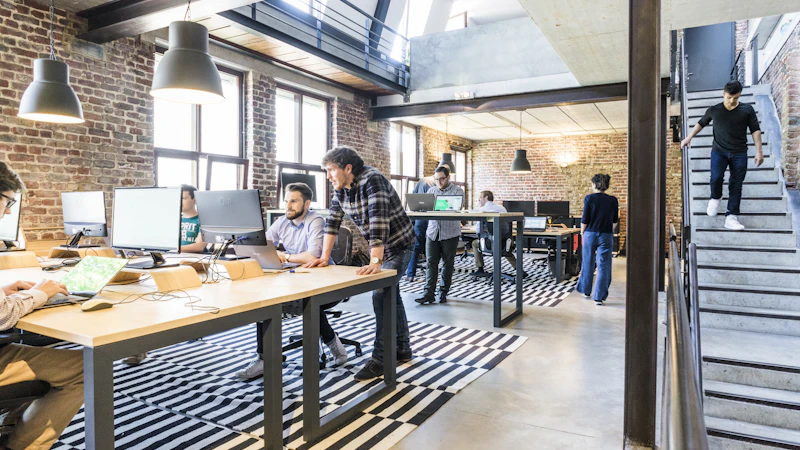
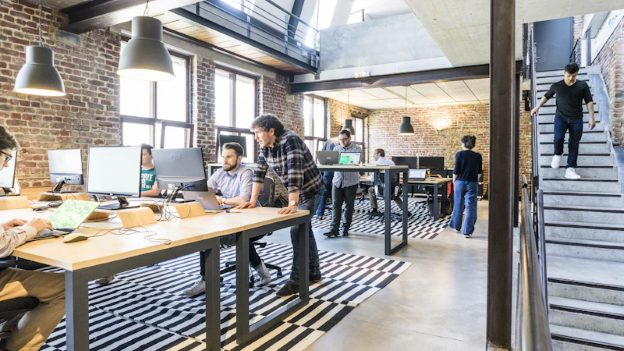
jhhjbh

diff --git a/css/styles.css b/css/styles.css
@@ -125,12 +125,16 @@ section{padding:88px 0;position:relative}
 .nav-logo{display:flex;align-items:center;gap:11px;flex-shrink:0}
 .nav-logo-icon{
   width:42px;height:42px;
-  border-radius:10px;object-fit:cover;display:block;flex-shrink:0;
+  border-radius:8px;object-fit:contain;display:block;flex-shrink:0;
   filter:none
 }
-.nav-logo-text{display:flex;flex-direction:column}
-.nav-logo-name{font-size:1.1rem;font-weight:800;color:var(--white);line-height:1.1}
-.nav-logo-tagline{font-size:.6rem;color:var(--teal-light);letter-spacing:1px;text-transform:uppercase}
+.nav-logo-text{display:flex;flex-direction:column;justify-content:center}
+.nav-logo-name{display:none}
+.nav-logo-tagline{
+  font-size:.72rem;font-weight:700;letter-spacing:2px;text-transform:uppercase;
+  color:#00CCFF;
+  text-shadow:0 0 8px rgba(0,204,255,.7),0 0 16px rgba(0,204,255,.4)
+}
 .nav-links{display:flex;align-items:center;gap:2px}
 .nav-links a{
   padding:8px 12px;font-size:.84rem;font-weight:500;
@@ -605,7 +609,7 @@ input[type="range"]::-webkit-slider-thumb{
 .footer-logo-wrap{display:flex;align-items:center;gap:11px;margin-bottom:15px;text-decoration:none}
 .footer-logo-icon{
   width:40px;height:40px;
-  border-radius:9px;object-fit:cover;display:block;flex-shrink:0;
+  border-radius:8px;object-fit:contain;display:block;flex-shrink:0;
   filter:none
 }
 .footer-logo-name{font-size:1.06rem;font-weight:800;color:var(--white)}
@@ -3208,4 +3212,93 @@ html[data-theme="dark"] .navbar.scrolled .btn-outline:hover{
 .value-card button.btn-primary{
   background:linear-gradient(135deg,#0B82D8,#16A34A);
   color:#FFFFFF
+}
+
+/* ══ GLOBAL TEXT VISIBILITY FIX ════════════════════════════
+   [data-theme="dark"] .section-title sets colour:#FFF which
+   makes text invisible on the light-background sections from
+   the redesign CSS. Override here with higher specificity.
+   ══════════════════════════════════════════════════════════ */
+
+/* Light-background sections → dark text */
+.services-section .section-title,
+.cards-section .section-title,
+.loans-section .section-title,
+.stats-section .section-title,
+.why-section .section-title,
+.faq-section .section-title,
+.about-values-grid ~ * .section-title,
+html[data-theme="dark"] .services-section .section-title,
+html[data-theme="dark"] .cards-section .section-title,
+html[data-theme="dark"] .loans-section .section-title,
+html[data-theme="dark"] .stats-section .section-title,
+html[data-theme="dark"] .why-section .section-title,
+html[data-theme="dark"] .faq-section .section-title{
+  color:#0A2540 !important
+}
+.services-section .section-subtitle,
+.cards-section .section-subtitle,
+.loans-section .section-subtitle,
+.stats-section .section-subtitle,
+.why-section .section-subtitle,
+.faq-section .section-subtitle,
+html[data-theme="dark"] .services-section .section-subtitle,
+html[data-theme="dark"] .cards-section .section-subtitle,
+html[data-theme="dark"] .loans-section .section-subtitle,
+html[data-theme="dark"] .why-section .section-subtitle,
+html[data-theme="dark"] .faq-section .section-subtitle{
+  color:#475569 !important
+}
+
+/* Gradient span text for light sections */
+.services-section .section-title span,
+.cards-section .section-title span,
+.loans-section .section-title span,
+.why-section .section-title span,
+.faq-section .section-title span,
+html[data-theme="dark"] .cards-section .section-title span,
+html[data-theme="dark"] .services-section .section-title span,
+html[data-theme="dark"] .loans-section .section-title span,
+html[data-theme="dark"] .why-section .section-title span{
+  background:linear-gradient(135deg,#0B6BCE,#16A34A) !important;
+  -webkit-background-clip:text !important;
+  -webkit-text-fill-color:transparent !important;
+  background-clip:text !important
+}
+
+/* Dark-background sections → keep white text */
+.security-section .section-title,
+.news-section .section-title,
+.testimonials-section .section-title,
+html[data-theme="dark"] .security-section .section-title,
+html[data-theme="dark"] .news-section .section-title{
+  color:#FFFFFF !important
+}
+.security-section .section-subtitle,
+.news-section .section-subtitle,
+html[data-theme="dark"] .security-section .section-subtitle,
+html[data-theme="dark"] .news-section .section-subtitle{
+  color:rgba(255,255,255,.6) !important
+}
+
+/* ── Security badge text visibility fix ───────────────────── */
+.security-badge-main{
+  background:rgba(255,255,255,.05) !important;
+  border:1px solid rgba(255,255,255,.1) !important;
+  box-shadow:0 14px 44px rgba(0,0,0,.45) !important
+}
+.security-badge-main h3{color:#FFFFFF !important}
+.security-badge-main p{color:rgba(255,255,255,.7) !important}
+.security-icon-main{color:#FFFFFF !important;opacity:.9}
+
+/* ── Navbar logo: hide name, always show highlighted tagline ── */
+.nav-logo-name,
+.navbar.scrolled .nav-logo-name{display:none !important}
+.nav-logo-tagline,
+.navbar.scrolled .nav-logo-tagline{
+  display:block !important;
+  font-size:.72rem !important;font-weight:700 !important;
+  letter-spacing:2px !important;text-transform:uppercase !important;
+  color:#00CCFF !important;
+  text-shadow:0 0 8px rgba(0,204,255,.75),0 0 18px rgba(0,204,255,.4) !important
 }

diff --git a/contact.html b/contact.html
@@ -12,7 +12,7 @@
 <nav class="navbar" id="navbar">
   <div class="container">
     <div class="navbar-inner">
-      <a href="index.html" class="nav-logo"><img class="nav-logo-icon" src="images/logo.webp" alt="Stackly"><div class="nav-logo-text"><span class="nav-logo-name">Stackly</span><span class="nav-logo-tagline">Secure Banking</span></div></a>
+      <a href="index.html" class="nav-logo"><img class="nav-logo-icon" src="images/stackly-bank-logo.webp" alt="Stackly"><div class="nav-logo-text"><span class="nav-logo-name">Stackly</span><span class="nav-logo-tagline">Secure Banking</span></div></a>
       <div class="nav-links">
         <a href="index.html">Home</a><a href="about.html">About Us</a><a href="services.html">Services</a>
         <a href="digital-banking.html">Digital</a><a href="loans.html">Loans</a>
@@ -86,10 +86,23 @@
           </div>
         </div>
 
-        <div class="map-placeholder reveal">
-          <span class="map-icon">📍</span>
-          <p>Stackly HQ — BKC, Mumbai</p>
-          <button class="btn btn-outline btn-sm" style="font-size:.75rem" onclick="showToast('Opening map...','info')">Open in Maps</button>
+        <div class="map-placeholder reveal" style="background:linear-gradient(135deg,#dbeafe,#e0f2fe,#dcfce7);border:1px solid rgba(11,107,206,.15);position:relative;overflow:hidden;height:240px">
+          <!-- Map grid -->
+          <div style="position:absolute;inset:0;background-image:linear-gradient(rgba(11,107,206,.12) 1px,transparent 1px),linear-gradient(90deg,rgba(11,107,206,.12) 1px,transparent 1px);background-size:28px 28px;pointer-events:none"></div>
+          <!-- Roads -->
+          <div style="position:absolute;top:50%;left:0;right:0;height:7px;background:rgba(255,255,255,.75);transform:translateY(-50%);pointer-events:none"></div>
+          <div style="position:absolute;top:0;bottom:0;left:40%;width:7px;background:rgba(255,255,255,.75);pointer-events:none"></div>
+          <!-- Location block -->
+          <div style="position:absolute;top:50%;left:55%;transform:translate(-10%,-60%);background:#FFFFFF;border-radius:8px;padding:6px 10px;box-shadow:0 2px 8px rgba(0,0,0,.15);font-size:.7rem;font-weight:700;color:#0A4D9B;white-space:nowrap;pointer-events:none">Stackly Tower</div>
+          <!-- Content -->
+          <div style="position:relative;z-index:2;display:flex;flex-direction:column;align-items:center;gap:10px">
+            <span style="font-size:2.5rem;filter:drop-shadow(0 2px 4px rgba(0,0,0,.2))">📍</span>
+            <p style="font-size:.82rem;color:#1e3a5f;font-weight:600;margin:0">Stackly HQ — BKC, Mumbai</p>
+            <a href="https://maps.google.com/?q=Stackly+Tower,+BKC,+Mumbai,+Maharashtra+400051" target="_blank" rel="noopener"
+               style="background:#0B6BCE;color:#FFFFFF;padding:8px 20px;border-radius:50px;font-size:.78rem;font-weight:700;text-decoration:none;box-shadow:0 4px 12px rgba(11,107,206,.35);display:inline-flex;align-items:center;gap:6px">
+              🗺️ Open in Maps
+            </a>
+          </div>
         </div>
       </div>
 
@@ -168,7 +181,7 @@
 <footer class="footer">
   <div class="container">
     <div class="footer-grid">
-      <div class="footer-brand"><a href="index.html" class="footer-logo-wrap"><img class="footer-logo-icon" src="images/logo.webp" alt="Stackly"><div><div class="footer-logo-name">Stackly Bank</div><div class="footer-tagline-text">Secure Banking. Smarter Future.</div></div></a><p class="footer-desc">India's trusted digital banking platform.</p><div class="footer-social"><a class="social-icon" href="404.html">f</a><a class="social-icon" href="404.html">𝕏</a><a class="social-icon" href="404.html">📸</a><a class="social-icon" href="404.html">in</a></div></div>
+      <div class="footer-brand"><a href="index.html" class="footer-logo-wrap"><img class="footer-logo-icon" src="images/stackly-bank-logo.webp" alt="Stackly"><div><div class="footer-logo-name">Stackly Bank</div><div class="footer-tagline-text">Secure Banking. Smarter Future.</div></div></a><p class="footer-desc">India's trusted digital banking platform.</p><div class="footer-social"><a class="social-icon" href="404.html">f</a><a class="social-icon" href="404.html">𝕏</a><a class="social-icon" href="404.html">📸</a><a class="social-icon" href="404.html">in</a></div></div>
       <div class="footer-col"><h4>Quick Links</h4><div class="footer-links"><a href="index.html">Home</a><a href="about.html">About</a><a href="services.html">Services</a><a href="loans.html">Loans</a></div></div>
       <div class="footer-col"><h4>Contact</h4><div class="footer-links"><a href="support.html">Help Centre</a><a href="faq.html">FAQ</a><a href="contact.html">Contact Us</a></div></div>
       <div class="footer-col"><h4>Reach Us</h4><div class="footer-contact-item"><span class="footer-contact-icon">📞</span><div class="footer-contact-text">1800-123-4567</div></div><div class="footer-contact-item"><span class="footer-contact-icon">📧</span><div class="footer-contact-text">[email redacted]</div></div><div class="footer-contact-item"><span class="footer-contact-icon">📍</span><div class="footer-contact-text"><a href="https://maps.google.com/?q=Stackly+Tower,+BKC,+Mumbai,+Maharashtra+400051" target="_blank" rel="noopener" style="color:inherit;text-decoration:none">Stackly Tower, BKC<br>Mumbai, Maharashtra 400051</a></div></div></div>

diff --git a/about.html b/about.html
@@ -13,7 +13,7 @@
   <div class="container">
     <div class="navbar-inner">
       <a href="index.html" class="nav-logo">
-        <img class="nav-logo-icon" src="images/logo.webp" alt="Stackly">
+        <img class="nav-logo-icon" src="images/stackly-bank-logo.webp" alt="Stackly">
         <div class="nav-logo-text">
           <span class="nav-logo-name">Stackly</span>
           <span class="nav-logo-tagline">Secure Banking</span>
@@ -226,7 +226,7 @@
     <div class="footer-grid">
       <div class="footer-brand">
         <a href="index.html" class="footer-logo-wrap">
-          <img class="footer-logo-icon" src="images/logo.webp" alt="Stackly">
+          <img class="footer-logo-icon" src="images/stackly-bank-logo.webp" alt="Stackly">
           <div><div class="footer-logo-name">Stackly Bank</div><div class="footer-tagline-text">Secure Banking. Smarter Future.</div></div>
         </a>
         <p class="footer-desc">India's trusted digital banking platform. Secure, fast and always available — banking the way it should be.</p>

diff --git a/credit-cards.html b/credit-cards.html
@@ -12,7 +12,7 @@
 <nav class="navbar" id="navbar">
   <div class="container">
     <div class="navbar-inner">
-      <a href="index.html" class="nav-logo"><img class="nav-logo-icon" src="images/logo.webp" alt="Stackly"><div class="nav-logo-text"><span class="nav-logo-name">Stackly</span><span class="nav-logo-tagline">Secure Banking</span></div></a>
+      <a href="index.html" class="nav-logo"><img class="nav-logo-icon" src="images/stackly-bank-logo.webp" alt="Stackly"><div class="nav-logo-text"><span class="nav-logo-name">Stackly</span><span class="nav-logo-tagline">Secure Banking</span></div></a>
       <div class="nav-links">
         <a href="index.html">Home</a><a href="about.html">About Us</a><a href="services.html">Services</a>
         <a href="digital-banking.html">Digital</a><a href="loans.html">Loans</a>
@@ -237,7 +237,7 @@
 <footer class="footer">
   <div class="container">
     <div class="footer-grid">
-      <div class="footer-brand"><a href="index.html" class="footer-logo-wrap"><img class="footer-logo-icon" src="images/logo.webp" alt="Stackly"><div><div class="footer-logo-name">Stackly Bank</div><div class="footer-tagline-text">Secure Banking. Smarter Future.</div></div></a><p class="footer-desc">India's trusted digital banking platform.</p><div class="footer-social"><a class="social-icon" href="404.html">f</a><a class="social-icon" href="404.html">𝕏</a><a class="social-icon" href="404.html">📸</a><a class="social-icon" href="404.html">in</a></div></div>
+      <div class="footer-brand"><a href="index.html" class="footer-logo-wrap"><img class="footer-logo-icon" src="images/stackly-bank-logo.webp" alt="Stackly"><div><div class="footer-logo-name">Stackly Bank</div><div class="footer-tagline-text">Secure Banking. Smarter Future.</div></div></a><p class="footer-desc">India's trusted digital banking platform.</p><div class="footer-social"><a class="social-icon" href="404.html">f</a><a class="social-icon" href="404.html">𝕏</a><a class="social-icon" href="404.html">📸</a><a class="social-icon" href="404.html">in</a></div></div>
       <div class="footer-col"><h4>Credit Cards</h4><div class="footer-links"><a href="credit-cards.html">Platinum Card</a><a href="credit-cards.html">Gold Card</a><a href="credit-cards.html">Rewards Card</a><a href="credit-cards.html">Business Card</a></div></div>
       <div class="footer-col"><h4>Quick Links</h4><div class="footer-links"><a href="index.html">Home</a><a href="about.html">About</a><a href="services.html">Services</a><a href="loans.html">Loans</a></div></div>
       <div class="footer-col"><h4>Contact</h4><div class="footer-contact-item"><span class="footer-contact-icon">📞</span><div class="footer-contact-text">1800-123-4567</div></div><div class="footer-contact-item"><span class="footer-contact-icon">📧</span><div class="footer-contact-text">[email redacted]</div></div><div class="footer-contact-item"><span class="footer-contact-icon">📍</span><div class="footer-contact-text"><a href="https://maps.google.com/?q=Stackly+Tower,+BKC,+Mumbai,+Maharashtra+400051" target="_blank" rel="noopener" style="color:inherit;text-decoration:none">Stackly Tower, BKC<br>Mumbai, Maharashtra 400051</a></div></div></div>

diff --git a/digital-banking.html b/digital-banking.html
@@ -12,7 +12,7 @@
 <nav class="navbar" id="navbar">
   <div class="container">
     <div class="navbar-inner">
-      <a href="index.html" class="nav-logo"><img class="nav-logo-icon" src="images/logo.webp" alt="Stackly"><div class="nav-logo-text"><span class="nav-logo-name">Stackly</span><span class="nav-logo-tagline">Secure Banking</span></div></a>
+      <a href="index.html" class="nav-logo"><img class="nav-logo-icon" src="images/stackly-bank-logo.webp" alt="Stackly"><div class="nav-logo-text"><span class="nav-logo-name">Stackly</span><span class="nav-logo-tagline">Secure Banking</span></div></a>
       <div class="nav-links">
         <a href="index.html">Home</a><a href="about.html">About Us</a><a href="services.html">Services</a>
         <a href="digital-banking.html" class="active">Digital</a><a href="loans.html">Loans</a>
@@ -157,7 +157,7 @@
 <footer class="footer">
   <div class="container">
     <div class="footer-grid">
-      <div class="footer-brand"><a href="index.html" class="footer-logo-wrap"><img class="footer-logo-icon" src="images/logo.webp" alt="Stackly"><div><div class="footer-logo-name">Stackly Bank</div><div class="footer-tagline-text">Secure Banking. Smarter Future.</div></div></a><p class="footer-desc">India's trusted digital banking platform.</p><div class="footer-social"><a class="social-icon" href="404.html">f</a><a class="social-icon" href="404.html">𝕏</a><a class="social-icon" href="404.html">📸</a><a class="social-icon" href="404.html">in</a></div></div>
+      <div class="footer-brand"><a href="index.html" class="footer-logo-wrap"><img class="footer-logo-icon" src="images/stackly-bank-logo.webp" alt="Stackly"><div><div class="footer-logo-name">Stackly Bank</div><div class="footer-tagline-text">Secure Banking. Smarter Future.</div></div></a><p class="footer-desc">India's trusted digital banking platform.</p><div class="footer-social"><a class="social-icon" href="404.html">f</a><a class="social-icon" href="404.html">𝕏</a><a class="social-icon" href="404.html">📸</a><a class="social-icon" href="404.html">in</a></div></div>
       <div class="footer-col"><h4>Digital</h4><div class="footer-links"><a href="digital-banking.html">Mobile App</a><a href="digital-banking.html">Internet Banking</a><a href="digital-banking.html">UPI</a><a href="digital-banking.html">Bill Payments</a></div></div>
       <div class="footer-col"><h4>Quick Links</h4><div class="footer-links"><a href="index.html">Home</a><a href="about.html">About</a><a href="services.html">Services</a><a href="loans.html">Loans</a></div></div>
       <div class="footer-col"><h4>Contact</h4><div class="footer-contact-item"><span class="footer-contact-icon">📞</span><div class="footer-contact-text">1800-123-4567</div></div><div class="footer-contact-item"><span class="footer-contact-icon">📧</span><div class="footer-contact-text">[email redacted]</div></div><div class="footer-contact-item"><span class="footer-contact-icon">📍</span><div class="footer-contact-text"><a href="https://maps.google.com/?q=Stackly+Tower,+BKC,+Mumbai,+Maharashtra+400051" target="_blank" rel="noopener" style="color:inherit;text-decoration:none">Stackly Tower, BKC<br>Mumbai, Maharashtra 400051</a></div></div></div>

diff --git a/faq.html b/faq.html
@@ -12,7 +12,7 @@
 <nav class="navbar" id="navbar">
   <div class="container">
     <div class="navbar-inner">
-      <a href="index.html" class="nav-logo"><img class="nav-logo-icon" src="images/logo.webp" alt="Stackly"><div class="nav-logo-text"><span class="nav-logo-name">Stackly</span><span class="nav-logo-tagline">Secure Banking</span></div></a>
+      <a href="index.html" class="nav-logo"><img class="nav-logo-icon" src="images/stackly-bank-logo.webp" alt="Stackly"><div class="nav-logo-text"><span class="nav-logo-name">Stackly</span><span class="nav-logo-tagline">Secure Banking</span></div></a>
       <div class="nav-links">
         <a href="index.html">Home</a><a href="about.html">About Us</a><a href="services.html">Services</a>
         <a href="digital-banking.html">Digital</a><a href="loans.html">Loans</a>
@@ -177,7 +177,7 @@
 <footer class="footer">
   <div class="container">
     <div class="footer-grid">
-      <div class="footer-brand"><a href="index.html" class="footer-logo-wrap"><img class="footer-logo-icon" src="images/logo.webp" alt="Stackly"><div><div class="footer-logo-name">Stackly Bank</div><div class="footer-tagline-text">Secure Banking. Smarter Future.</div></div></a><p class="footer-desc">India's trusted digital banking platform.</p><div class="footer-social"><a class="social-icon" href="404.html">f</a><a class="social-icon" href="404.html">𝕏</a><a class="social-icon" href="404.html">📸</a><a class="social-icon" href="404.html">in</a></div></div>
+      <div class="footer-brand"><a href="index.html" class="footer-logo-wrap"><img class="footer-logo-icon" src="images/stackly-bank-logo.webp" alt="Stackly"><div><div class="footer-logo-name">Stackly Bank</div><div class="footer-tagline-text">Secure Banking. Smarter Future.</div></div></a><p class="footer-desc">India's trusted digital banking platform.</p><div class="footer-social"><a class="social-icon" href="404.html">f</a><a class="social-icon" href="404.html">𝕏</a><a class="social-icon" href="404.html">📸</a><a class="social-icon" href="404.html">in</a></div></div>
       <div class="footer-col"><h4>Quick Links</h4><div class="footer-links"><a href="index.html">Home</a><a href="about.html">About</a><a href="services.html">Services</a><a href="loans.html">Loans</a></div></div>
       <div class="footer-col"><h4>Help</h4><div class="footer-links"><a href="support.html">Help Centre</a><a href="faq.html">FAQ</a><a href="contact.html">Contact</a></div></div>
       <div class="footer-col"><h4>Contact</h4><div class="footer-contact-item"><span class="footer-contact-icon">📞</span><div class="footer-contact-text">1800-123-4567</div></div><div class="footer-contact-item"><span class="footer-contact-icon">📧</span><div class="footer-contact-text">[email redacted]</div></div><div class="footer-contact-item"><span class="footer-contact-icon">📍</span><div class="footer-contact-text"><a href="https://maps.google.com/?q=Stackly+Tower,+BKC,+Mumbai,+Maharashtra+400051" target="_blank" rel="noopener" style="color:inherit;text-decoration:none">Stackly Tower, BKC<br>Mumbai, Maharashtra 400051</a></div></div></div>

diff --git a/forgot-password.html b/forgot-password.html
@@ -13,7 +13,7 @@
   <div class="container">
     <div class="navbar-inner">
       <a href="index.html" class="nav-logo">
-        <img class="nav-logo-icon" src="images/logo.webp" alt="Stackly">
+        <img class="nav-logo-icon" src="images/stackly-bank-logo.webp" alt="Stackly">
         <div class="nav-logo-text">
           <span class="nav-logo-name">Stackly</span>
           <span class="nav-logo-tagline">Secure Banking</span>
@@ -37,7 +37,7 @@
       <div class="auth-card">
         <div class="auth-card-header">
           <div class="auth-card-logo">
-            <img class="auth-card-logo-icon" src="images/logo.webp" alt="Stackly">
+            <img class="auth-card-logo-icon" src="images/stackly-bank-logo.webp" alt="Stackly">
             <span class="auth-card-logo-name">Stackly Bank</span>
           </div>
           <h2 class="auth-card-title">Reset Password</h2>

diff --git a/index.html b/index.html
@@ -29,7 +29,7 @@
   <div class="container">
     <div class="navbar-inner">
       <a href="index.html" class="nav-logo">
-        <img class="nav-logo-icon" src="images/logo.webp" alt="Stackly">
+        <img class="nav-logo-icon" src="images/stackly-bank-logo.webp" alt="Stackly">
         <div class="nav-logo-text">
           <span class="nav-logo-name">Stackly</span>
           <span class="nav-logo-tagline">Secure Banking</span>
@@ -946,7 +946,7 @@
     <div class="footer-grid">
       <div class="footer-brand">
         <a href="index.html" class="footer-logo-wrap">
-          <img class="footer-logo-icon" src="images/logo.webp" alt="Stackly">
+          <img class="footer-logo-icon" src="images/stackly-bank-logo.webp" alt="Stackly">
           <div>
             <div class="footer-logo-name">Stackly Bank</div>
             <div class="footer-tagline-text">Secure Banking. Smarter Future.</div>

diff --git a/loans.html b/loans.html
@@ -12,7 +12,7 @@
 <nav class="navbar" id="navbar">
   <div class="container">
     <div class="navbar-inner">
-      <a href="index.html" class="nav-logo"><img class="nav-logo-icon" src="images/logo.webp" alt="Stackly"><div class="nav-logo-text"><span class="nav-logo-name">Stackly</span><span class="nav-logo-tagline">Secure Banking</span></div></a>
+      <a href="index.html" class="nav-logo"><img class="nav-logo-icon" src="images/stackly-bank-logo.webp" alt="Stackly"><div class="nav-logo-text"><span class="nav-logo-name">Stackly</span><span class="nav-logo-tagline">Secure Banking</span></div></a>
       <div class="nav-links">
         <a href="index.html">Home</a><a href="about.html">About Us</a><a href="services.html">Services</a>
         <a href="digital-banking.html">Digital</a><a href="loans.html" class="active">Loans</a>
@@ -232,7 +232,7 @@
 <footer class="footer">
   <div class="container">
     <div class="footer-grid">
-      <div class="footer-brand"><a href="index.html" class="footer-logo-wrap"><img class="footer-logo-icon" src="images/logo.webp" alt="Stackly"><div><div class="footer-logo-name">Stackly Bank</div><div class="footer-tagline-text">Secure Banking. Smarter Future.</div></div></a><p class="footer-desc">India's trusted digital banking platform.</p><div class="footer-social"><a class="social-icon" href="404.html">f</a><a class="social-icon" href="404.html">𝕏</a><a class="social-icon" href="404.html">📸</a><a class="social-icon" href="404.html">in</a></div></div>
+      <div class="footer-brand"><a href="index.html" class="footer-logo-wrap"><img class="footer-logo-icon" src="images/stackly-bank-logo.webp" alt="Stackly"><div><div class="footer-logo-name">Stackly Bank</div><div class="footer-tagline-text">Secure Banking. Smarter Future.</div></div></a><p class="footer-desc">India's trusted digital banking platform.</p><div class="footer-social"><a class="social-icon" href="404.html">f</a><a class="social-icon" href="404.html">𝕏</a><a class="social-icon" href="404.html">📸</a><a class="social-icon" href="404.html">in</a></div></div>
       <div class="footer-col"><h4>Loan Products</h4><div class="footer-links"><a href="loans.html">Personal Loan</a><a href="loans.html">Home Loan</a><a href="loans.html">Education Loan</a><a href="loans.html">Vehicle Loan</a><a href="loans.html">Business Loan</a></div></div>
       <div class="footer-col"><h4>Quick Links</h4><div class="footer-links"><a href="index.html">Home</a><a href="about.html">About</a><a href="services.html">Services</a><a href="credit-cards.html">Cards</a></div></div>
       <div class="footer-col"><h4>Contact</h4><div class="footer-contact-item"><span class="footer-contact-icon">📞</span><div class="footer-contact-text">1800-123-4567</div></div><div class="footer-contact-item"><span class="footer-contact-icon">📧</span><div class="footer-contact-text">[email redacted]</div></div><div class="footer-contact-item"><span class="footer-contact-icon">📍</span><div class="footer-contact-text"><a href="https://maps.google.com/?q=Stackly+Tower,+BKC,+Mumbai,+Maharashtra+400051" target="_blank" rel="noopener" style="color:inherit;text-decoration:none">Stackly Tower, BKC<br>Mumbai, Maharashtra 400051</a></div></div></div>

diff --git a/login.html b/login.html
@@ -13,7 +13,7 @@
   <div class="container">
     <div class="navbar-inner">
       <a href="index.html" class="nav-logo">
-        <img class="nav-logo-icon" src="images/logo.webp" alt="Stackly">
+        <img class="nav-logo-icon" src="images/stackly-bank-logo.webp" alt="Stackly">
         <div class="nav-logo-text">
           <span class="nav-logo-name">Stackly</span>
           <span class="nav-logo-tagline">Secure Banking</span>
@@ -52,7 +52,7 @@
       <div class="auth-card">
         <div class="auth-card-header">
           <div class="auth-card-logo">
-            <img class="auth-card-logo-icon" src="images/logo.webp" alt="Stackly">
+            <img class="auth-card-logo-icon" src="images/stackly-bank-logo.webp" alt="Stackly">
             <span class="auth-card-logo-name">Stackly Bank</span>
           </div>
           <h2 class="auth-card-title">Sign In</h2>

diff --git a/services.html b/services.html
@@ -13,7 +13,7 @@
   <div class="container">
     <div class="navbar-inner">
       <a href="index.html" class="nav-logo">
-        <img class="nav-logo-icon" src="images/logo.webp" alt="Stackly">
+        <img class="nav-logo-icon" src="images/stackly-bank-logo.webp" alt="Stackly">
         <div class="nav-logo-text"><span class="nav-logo-name">Stackly</span><span class="nav-logo-tagline">Secure Banking</span></div>
       </a>
       <div class="nav-links">
@@ -148,7 +148,7 @@
   <div class="container">
     <div class="footer-grid">
       <div class="footer-brand">
-        <a href="index.html" class="footer-logo-wrap"><img class="footer-logo-icon" src="images/logo.webp" alt="Stackly"><div><div class="footer-logo-name">Stackly Bank</div><div class="footer-tagline-text">Secure Banking. Smarter Future.</div></div></a>
+        <a href="index.html" class="footer-logo-wrap"><img class="footer-logo-icon" src="images/stackly-bank-logo.webp" alt="Stackly"><div><div class="footer-logo-name">Stackly Bank</div><div class="footer-tagline-text">Secure Banking. Smarter Future.</div></div></a>
         <p class="footer-desc">India's trusted digital banking platform.</p>
         <div class="footer-social"><a class="social-icon" href="404.html">f</a><a class="social-icon" href="404.html">𝕏</a><a class="social-icon" href="404.html">📸</a><a class="social-icon" href="404.html">in</a></div>
       </div>

diff --git a/signup.html b/signup.html
@@ -13,7 +13,7 @@
   <div class="container">
     <div class="navbar-inner">
       <a href="index.html" class="nav-logo">
-        <img class="nav-logo-icon" src="images/logo.webp" alt="Stackly">
+        <img class="nav-logo-icon" src="images/stackly-bank-logo.webp" alt="Stackly">
         <div class="nav-logo-text">
           <span class="nav-logo-name">Stackly</span>
           <span class="nav-logo-tagline">Secure Banking</span>
@@ -56,7 +56,7 @@
       <div class="auth-card">
         <div class="auth-card-header">
           <div class="auth-card-logo">
-            <img class="auth-card-logo-icon" src="images/logo.webp" alt="Stackly">
+            <img class="auth-card-logo-icon" src="images/stackly-bank-logo.webp" alt="Stackly">
             <span class="auth-card-logo-name">Stackly Bank</span>
           </div>
           <h2 class="auth-card-title">Create Account</h2>